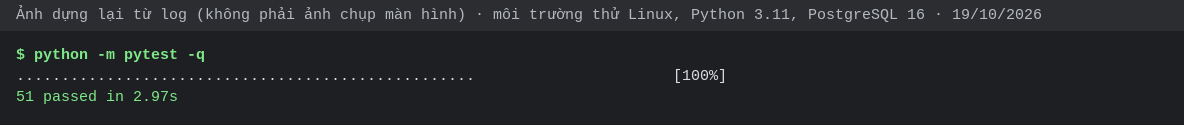
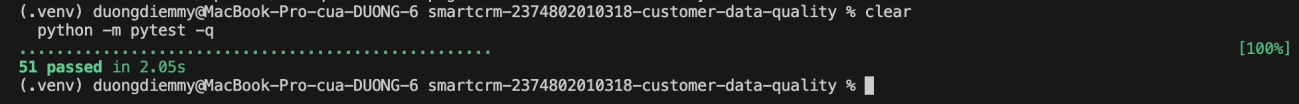
docs: thay ảnh chụp đúng trên MacBook, sửa số đo NFR-01 và phiên bản PostgreSQL trong README

diff --git a/README.md b/README.md
@@ -33,7 +33,7 @@ Mekong Mobile chưa có CRM. Dữ liệu khách hàng rải rác ở Excel từn
 |---|---|---|
 | Python | **3.11 trở lên** | pandas 3 không chạy trên 3.10 trở xuống; máy phát triển dùng 3.11 (Homebrew) |
 | Thư viện | `requirements.txt` | pandas, openpyxl, rapidfuzz, SQLAlchemy, psycopg2-binary, python-dotenv, PyYAML, pytest |
-| CSDL | **PostgreSQL 14 trở lên** (đã chạy trên 16) | Cần một CSDL `smartcrm` và một tài khoản có quyền tạo schema trong CSDL đó. Pipeline tự tạo schema `ops` (DDL chạy lại an toàn). |
+| CSDL | **PostgreSQL 14 trở lên** (đã chạy trên 14 và 16) | Cần một CSDL `smartcrm` và một tài khoản có quyền tạo schema trong CSDL đó. Pipeline tự tạo schema `ops` (DDL chạy lại an toàn). |
 | Biến môi trường | `.env` (chép từ `.env.example`) | `DB_HOST`, `DB_PORT`, `DB_NAME`, `DB_USER`, `DB_PASSWORD`. `.env` **không commit** (NFR-07). |
 | Dữ liệu | `data/raw/customers_raw.csv` | Lấy trong bộ "Dataset Smart CRM" trên LMS. **Không commit** vì có dữ liệu cá nhân. |
 | Không có PostgreSQL? | `--khong-ghi-csdl` | Vẫn chạy được extract, chuẩn hóa, đo chất lượng, xuất CSV và báo cáo (phương án dự phòng – TD-10). |
@@ -132,7 +132,7 @@ Mỗi lần chạy ghi:
 
 ## 6. Trạng thái hiện tại (buổi 8 – 19/10/2026)
 
-**Sprint 1 – đã hiện thực.** Đã chạy trên MacBook của em (macOS, Python 3.11, PostgreSQL 16) ngày 21/10/2026; trước đó đã chạy thử trên Linux.
+**Sprint 1 – đã hiện thực.** Đã chạy trên MacBook của em (macOS, Python 3.11, PostgreSQL 14) ngày 21/10/2026; trước đó đã chạy thử trên Linux.
 
 - [x] Repo: bỏ `.venv` và `.env` khỏi git; có `.gitignore`, `.env.example`; có đủ hồ sơ BT1 (`srs.md`, 5 tệp `.drawio`); nhánh `main` và `dev`.
 - [x] Phản hồi BT1 đã xử lý: `docs/thay-doi-thiet-ke.md` TD-01 – TD-05; PDF đúng tên, rút từ 27 còn 13 trang.
@@ -148,7 +148,7 @@ Mỗi lần chạy ghi:
   | hồ sơ lỗi (FR-10) | CSV kèm lý do |
   | dq_evaluate (FR-08) | 12 dòng `dq_result`; chỉ số **87,20 → 94,76** |
 
-  Ảnh chụp màn hình trên MacBook của em: `docs/sprint1/ket-qua-pipeline.png`, `ket-qua-csdl.png`, `ket-qua-pytest.png`. Báo cáo của lần chạy này: `docs/sprint1/bao-cao-uc1-dot-1.md`.
+  Ảnh chụp màn hình trên MacBook của em trong `docs/sprint1/`: `moi-truong.png`, `ket-qua-pipeline.png`, `ket-qua-csdl.png`, `ket-qua-tu-choi.png`, `ket-qua-pytest.png`, `ket-qua-nfr01-a.png`, `ket-qua-nfr01-b.png`. Báo cáo của lần chạy này: `docs/sprint1/bao-cao-uc1-dot-1.md`.
 - [x] Các trường hợp bị từ chối và lỗi đều có test:
 
   | Trường hợp | Kết quả | Test |
@@ -166,7 +166,7 @@ Mỗi lần chạy ghi:
 | Môi trường đo | Pipeline (extract + transform + đo) | Cả lệnh (kể cả khởi động Python) | Kết luận |
 |---|---|---|---|
 | Linux, Python 3.11, PostgreSQL 16 (môi trường thử, 19/10) | 1,4 s | 2,1 s | Đạt |
-| MacBook của em (máy phát triển), 21/10/2026 | 1,2 s | 1,9 s | Đạt |
+| MacBook của em (máy phát triển), 21/10/2026 – lớn nhất của 2 lượt × 3 lần | 1,3 s | 3,0 s | Đạt |
 
 **Còn lại (theo thứ tự ưu tiên – TD-04, gợi ý của giảng viên cho BT2)**
 

diff --git a/docs/sprint1/bao-cao-uc1-dot-1.md b/docs/sprint1/bao-cao-uc1-dot-1.md
@@ -1,7 +1,7 @@
 # Báo cáo UC1 – đợt nạp 1
 
[1 lines of base64/hex data omitted]
-- Đơn vị nguồn: TONG_HOP · Người nạp: my.marketing · Bắt đầu: 2026-10-19T15:31:46
+- Đơn vị nguồn: TONG_HOP · Người nạp: my.marketing · Bắt đầu: 2026-10-21T14:09:50
 - Ghi CSDL: có
 
 ## 1. Extract – 67.037 dòng × 6 cột
@@ -49,6 +49,6 @@ Tệp hồ sơ lỗi kèm lý do: `data/processed/ho_so_loi_dot_1.csv` (có dữ
 
 | Bước | Giây |
 |---|---:|
-| extract | 4,27 |
-| transform | 5,43 |
-| dq_evaluate | 0,53 |
+| extract | 2,46 |
+| transform | 5,10 |
+| dq_evaluate | 0,30 |
